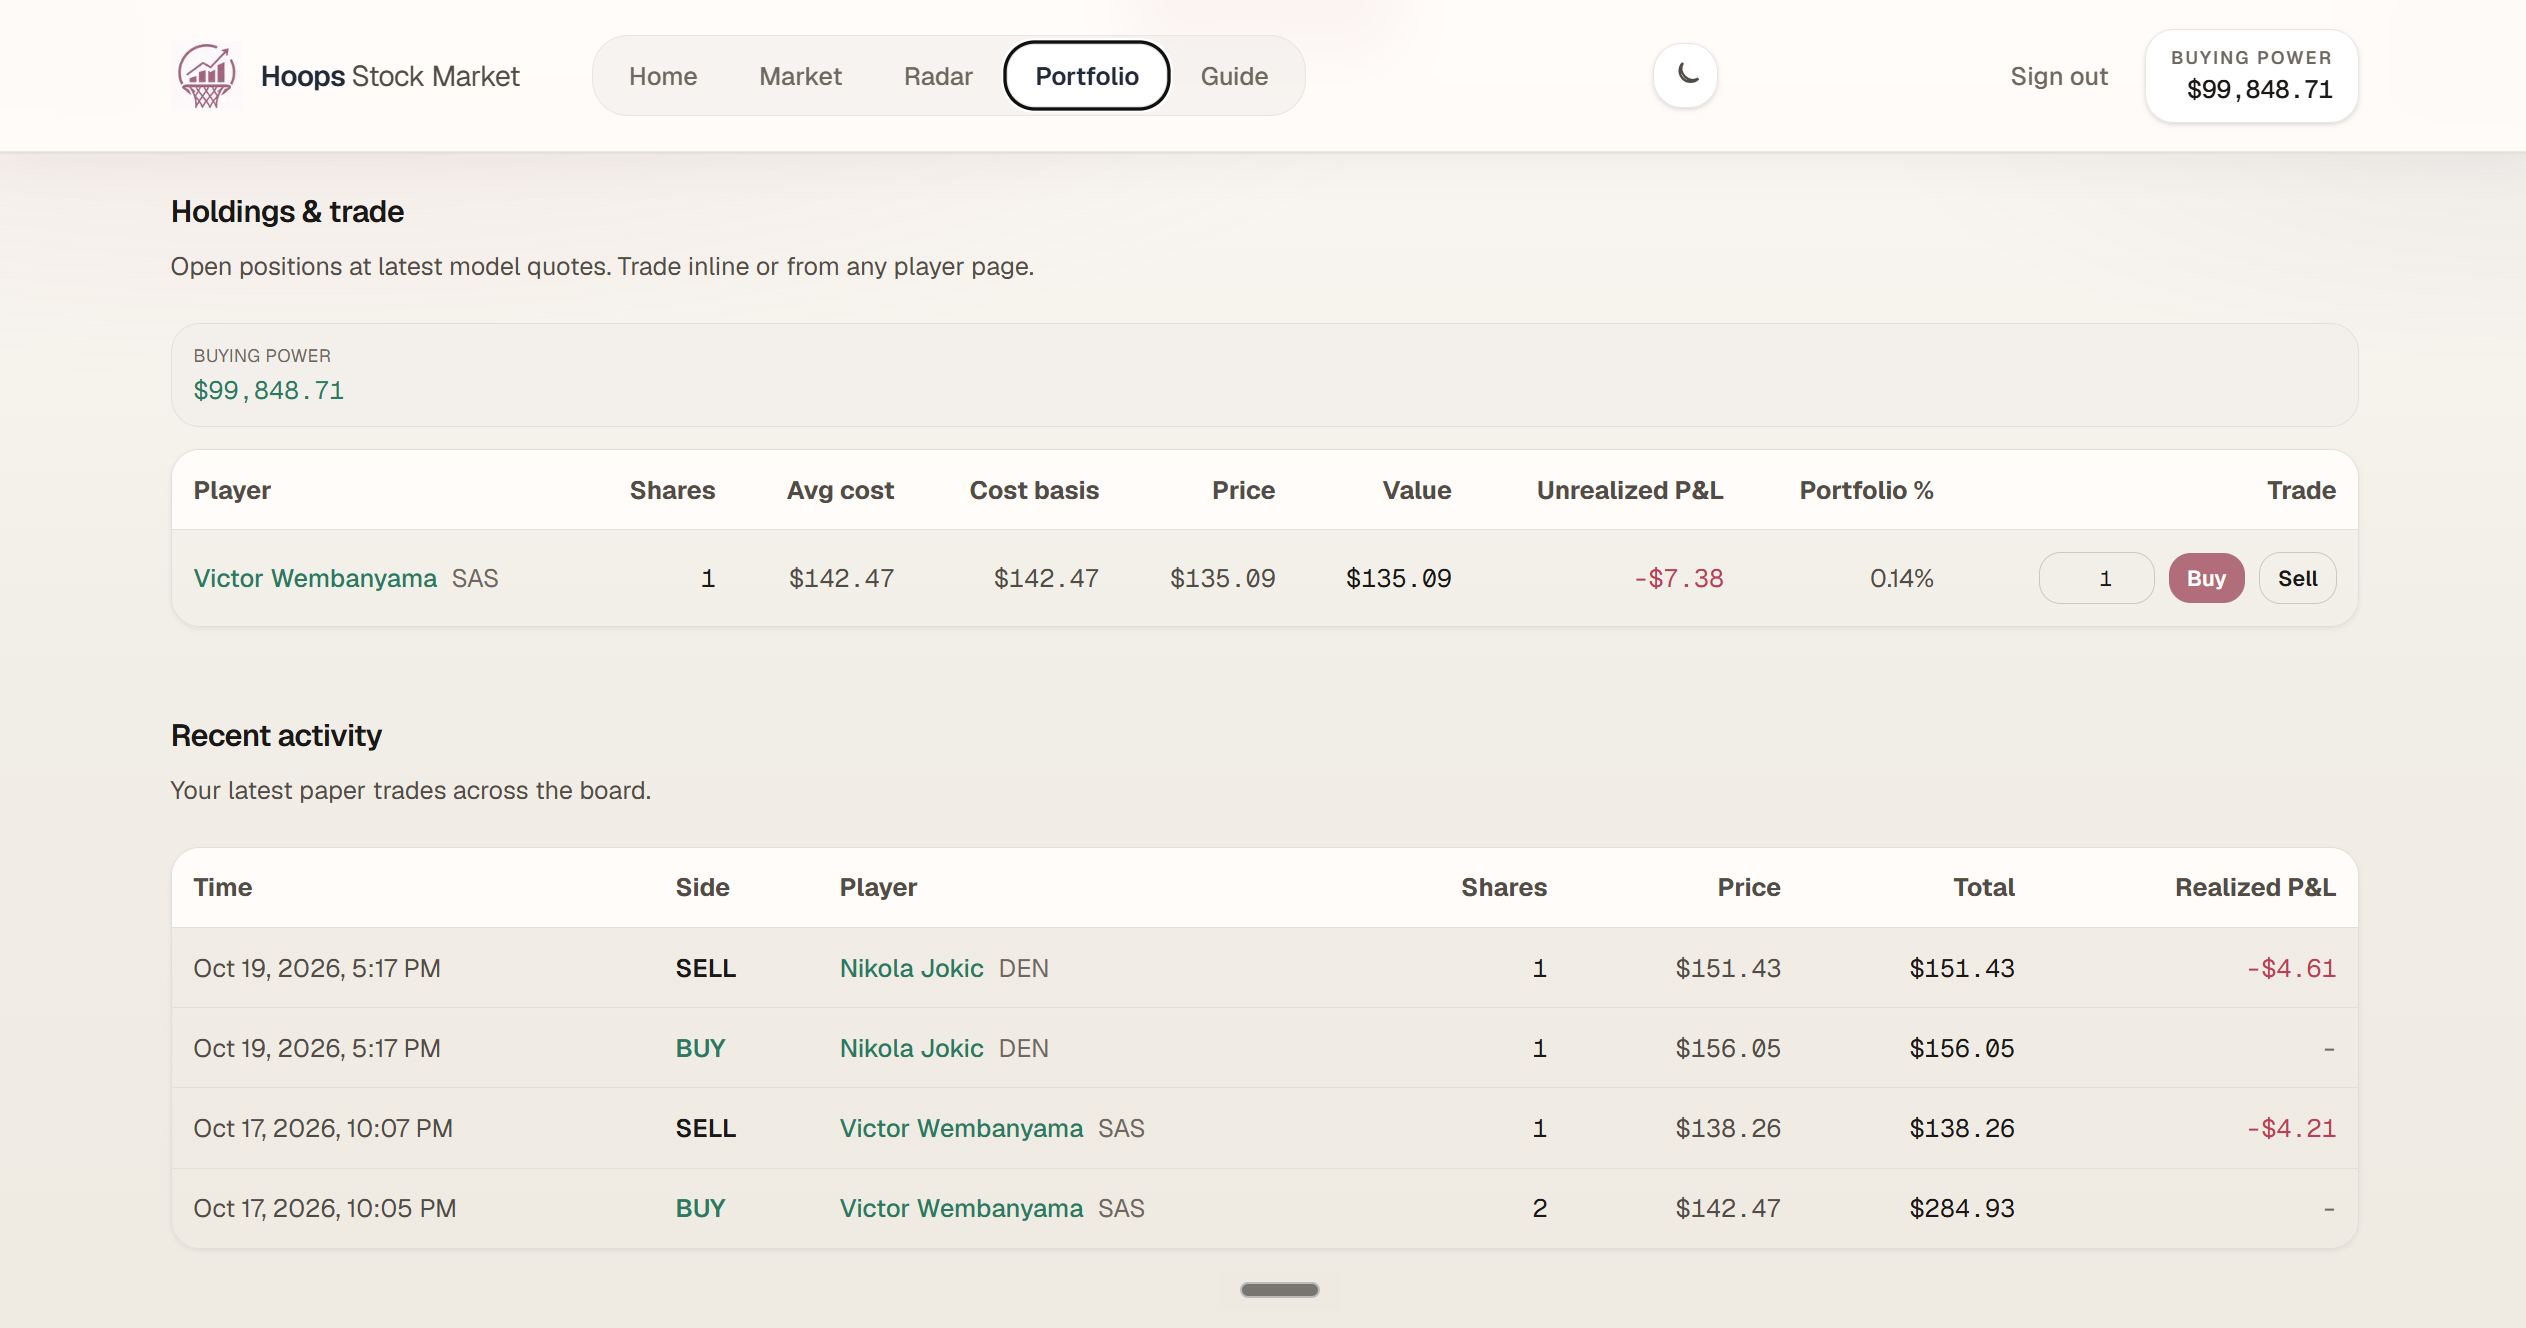
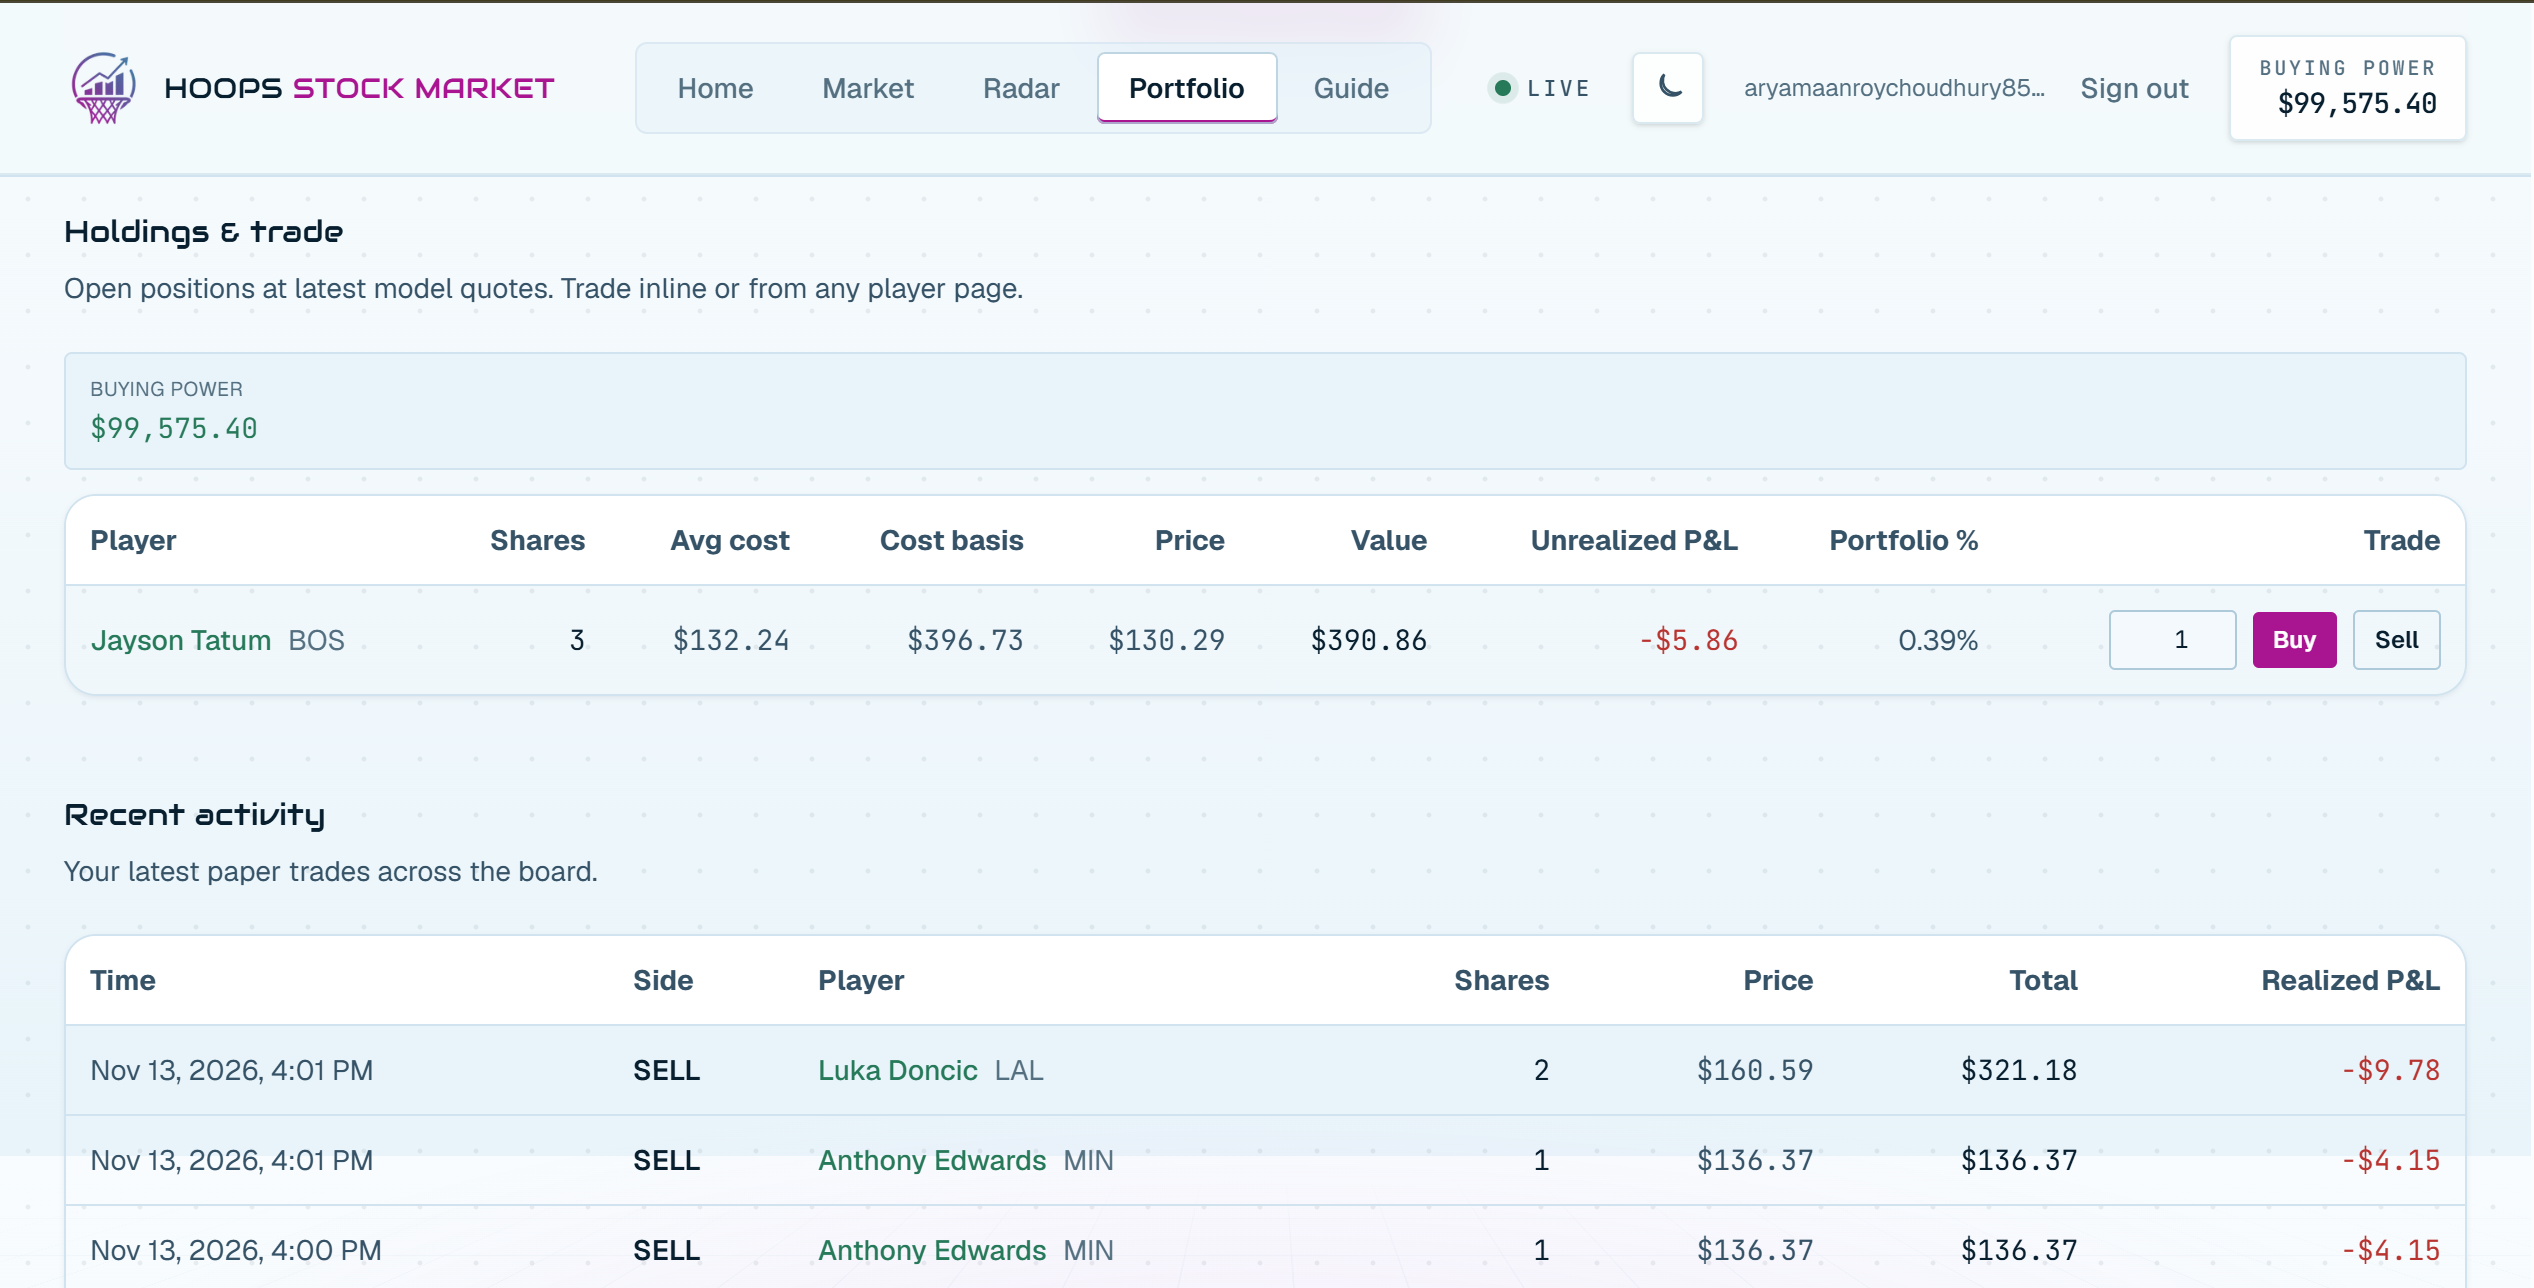
Update Hoops Stock Market screenshots to the new color scheme

diff --git a/src/data/content.ts b/src/data/content.ts
@@ -217,22 +217,22 @@ export const projects: Project[] = [
       {
         src: "/project-images/hoopsstockmarket-landing.png",
         alt: "Hoops Stock Market home page showing a near real-time market snapshot with board total, repricing pulse, and latest mover",
-        width: 1024,
-        height: 540,
+        width: 2522,
+        height: 1326,
         frameUrl: "hoopsstockmarket.com",
       },
       {
         src: "/project-images/hoopsstockmarket-player.png",
-        alt: "Hoops Stock Market player page for Anthony Edwards with a written player insight and a paper-trade panel",
-        width: 1024,
-        height: 486,
+        alt: "Hoops Stock Market player page for Luka Doncic: a “cooling off” player insight explaining that Market Price ($163.08) sits just above Fair Value ($162.70) after a quieter game, and a paper-trade panel with buy and sell prices",
+        width: 2524,
+        height: 1334,
         frameUrl: "hoopsstockmarket.com/player",
       },
       {
         src: "/project-images/hoopsstockmarket-portfolio.png",
-        alt: "Hoops Stock Market portfolio page: $99,848.71 of buying power, an open Victor Wembanyama position with its average cost, current price, and unrealized P&L, inline buy and sell controls, and a recent-activity table of paper trades with realized P&L",
-        width: 2526,
-        height: 1328,
+        alt: "Hoops Stock Market portfolio page: $99,575.40 of buying power, an open Jayson Tatum position with its average cost, current price, and unrealized P&L, inline buy and sell controls, and a recent-activity table of paper trades with realized P&L",
+        width: 2534,
+        height: 1288,
         frameUrl: "hoopsstockmarket.com/portfolio",
       },
     ],
